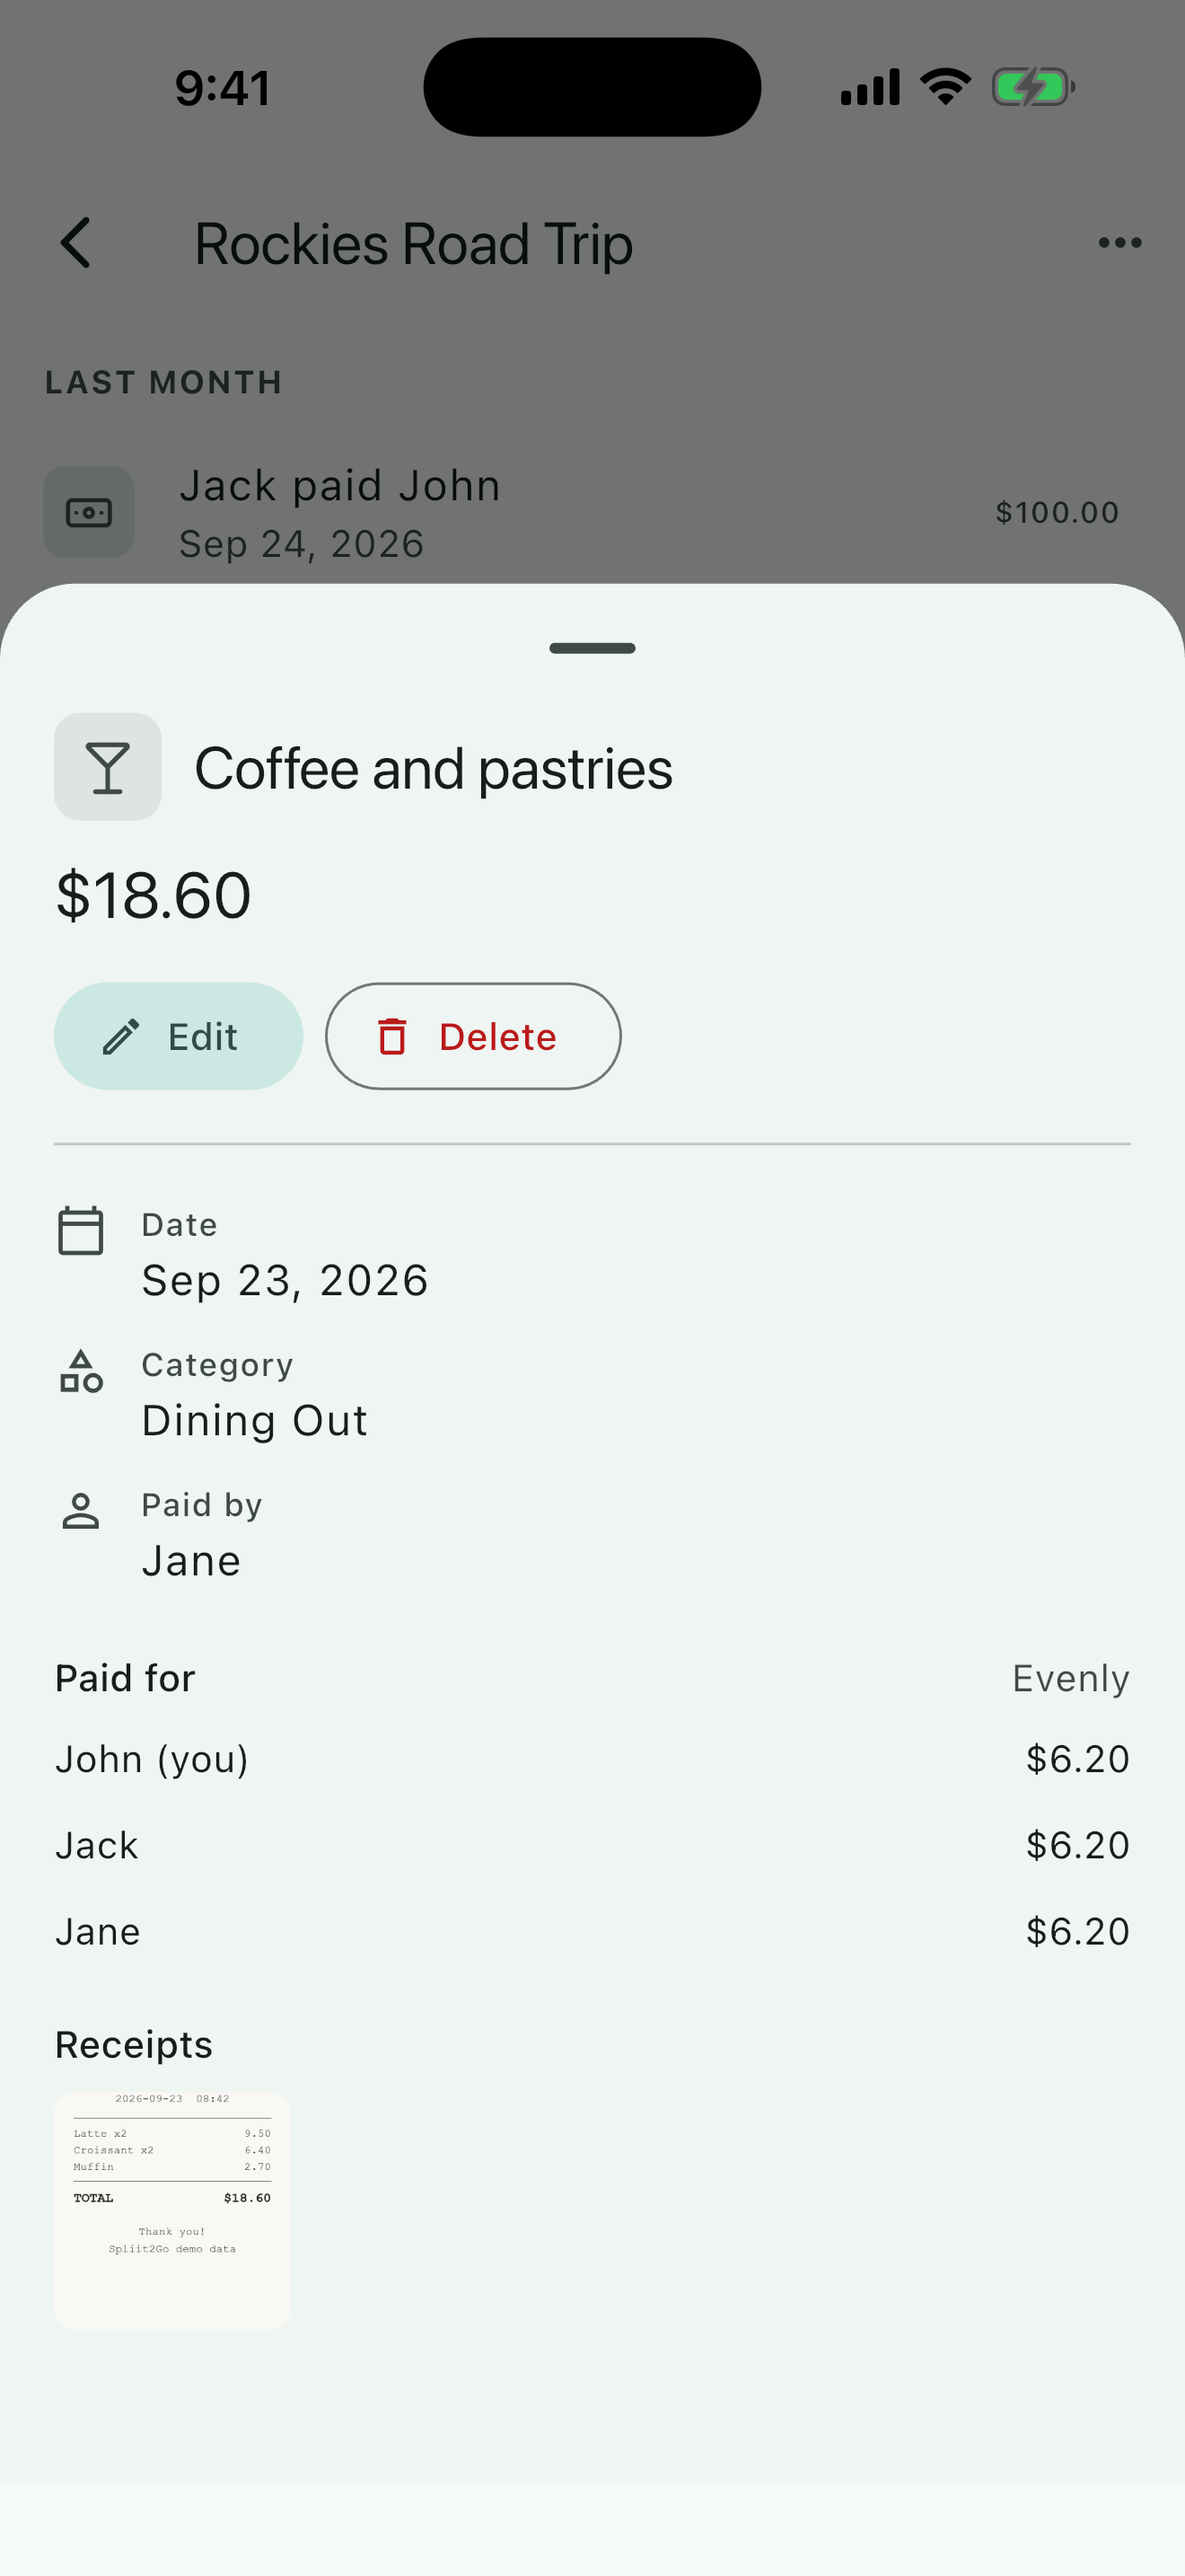
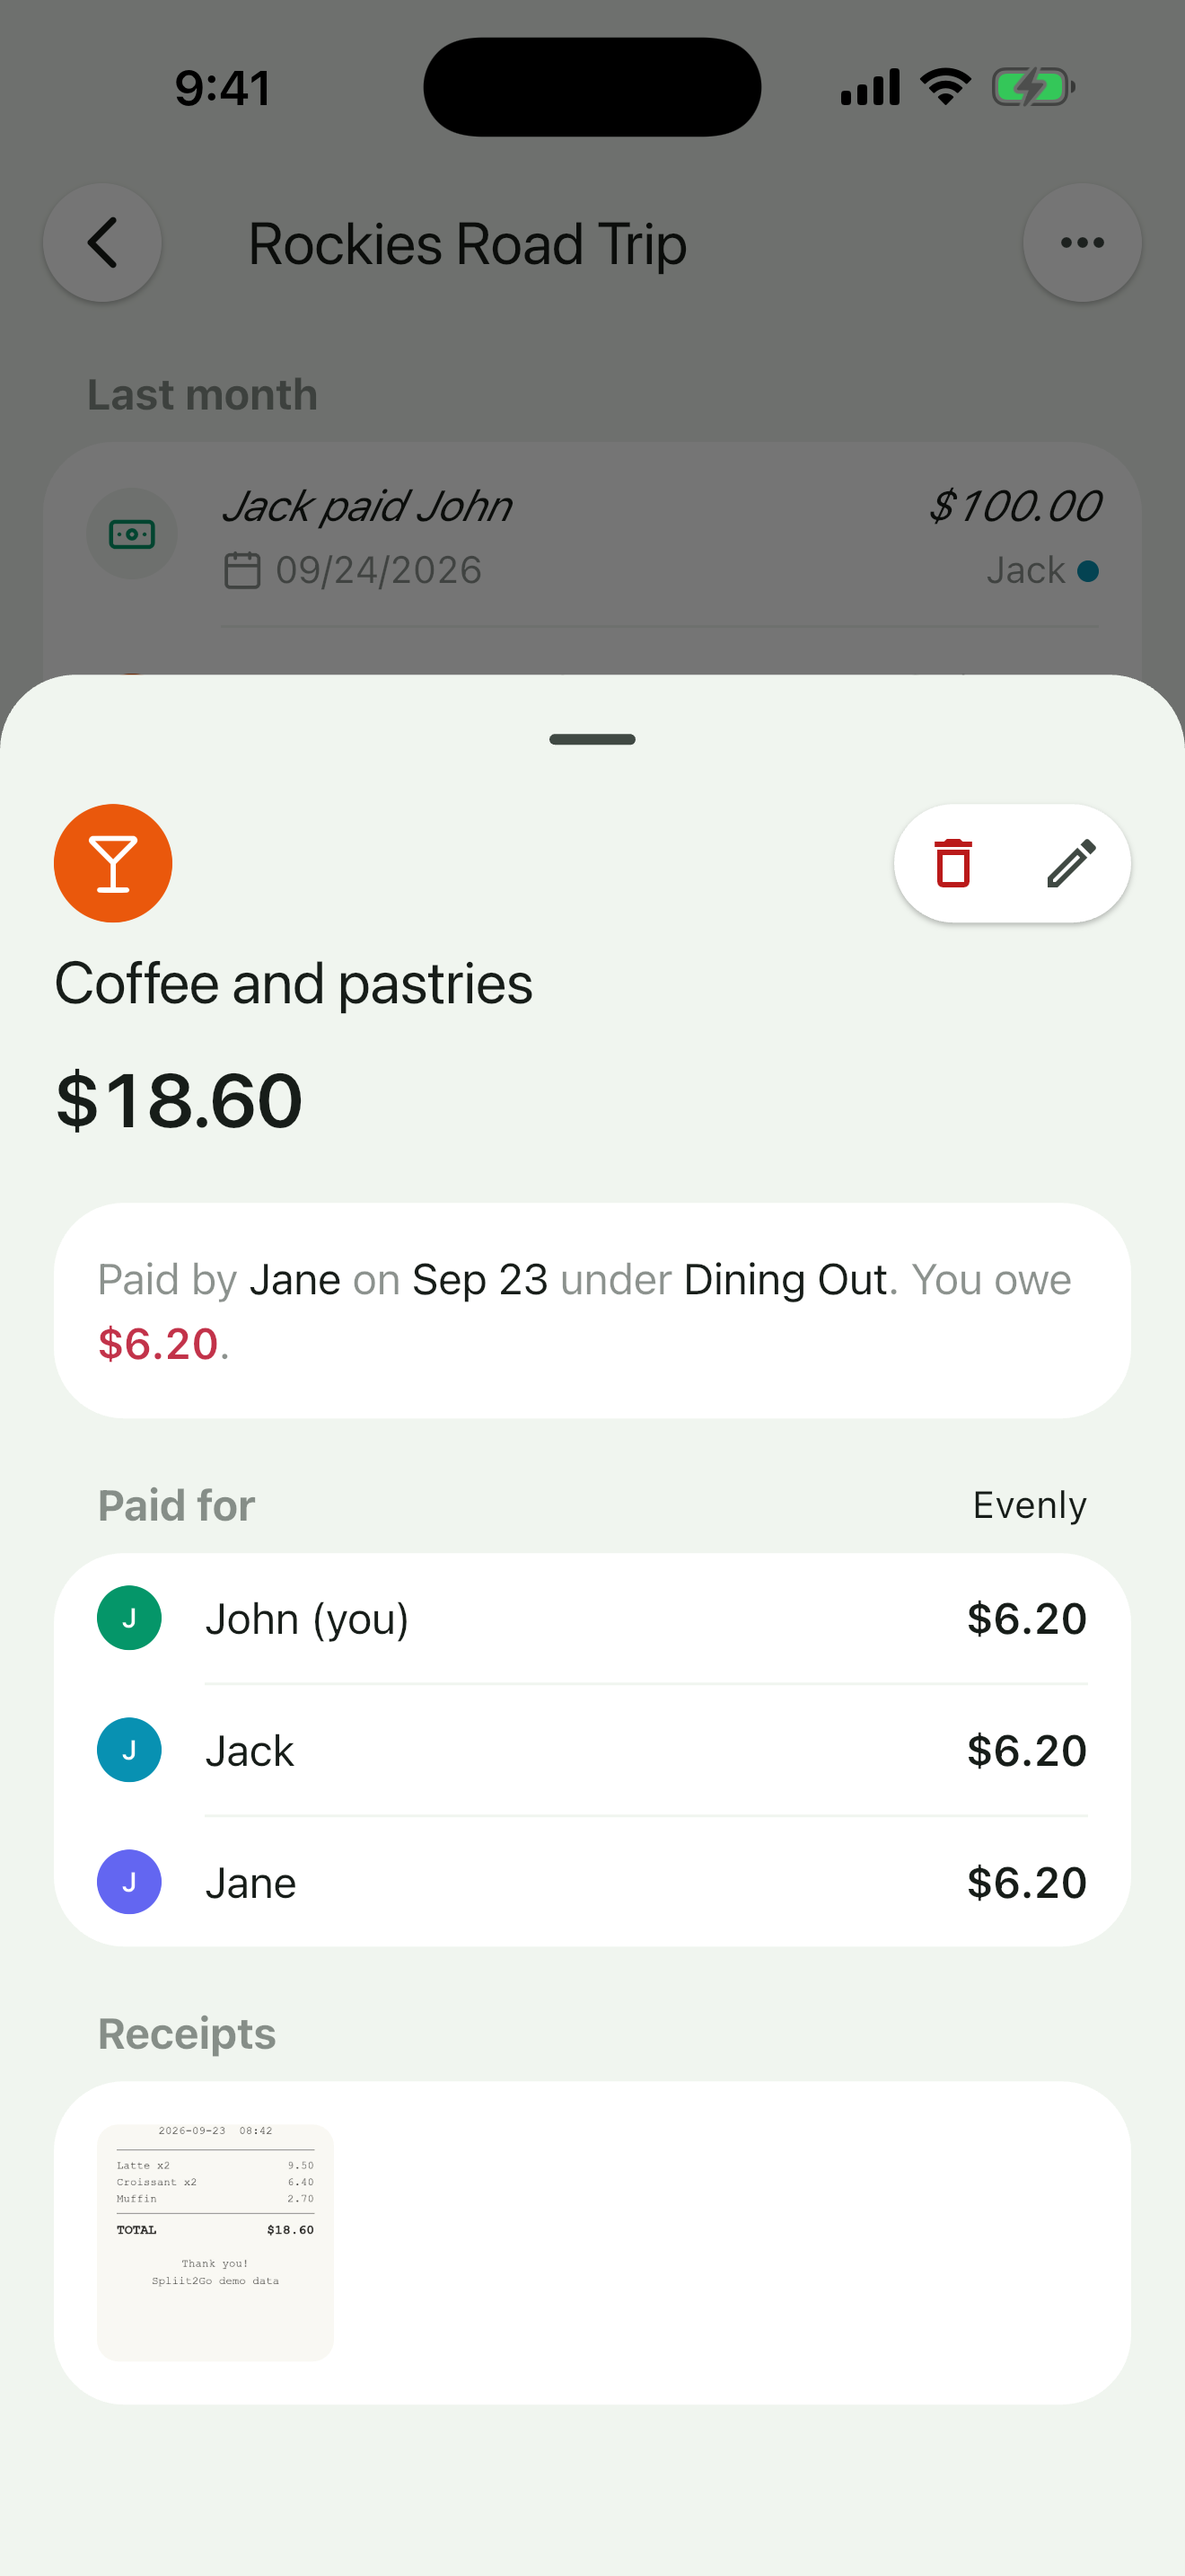
Retake the App Store screenshots for 1.0.0 (300)
The App Store set still showed build 1's design. Same six screens, the
same made-up groups and captions, from a prod build of ada0a7a (the
commit build 300 was made from) on the iPhone 17 Pro Max simulator.
Play's screenshots are unchanged.

diff --git a/branding/store/README.md b/branding/store/README.md
@@ -24,6 +24,6 @@ Only made-up data, never a real group. The app had these groups joined, all on s
 One group is a favorite: Rockies Road Trip on Android, Flat 4B on iPhone. The simulator reports no network to the app, so a favorite with receipts shows a red 📎 there.
 
 - **Android:** a release build on the `Medium_Phone` emulator (1080×2400), `adb exec-out screencap -p`. Demo mode gives the clean status bar: `settings put global sysui_demo_allowed 1`, then `am broadcast -a com.android.systemui.demo -e command …` with `enter`, `clock -e hhmm 0941`, `battery -e level 100 -e plugged false`, `network -e mobile hide -e wifi show -e level 4`, `notifications -e visible false`. Clear any notification first.
-- **iPhone:** the iPhone 17 Pro Max simulator (1320×2868), `xcrun simctl io <device> screenshot`, with `xcrun simctl status_bar <device> override --time 9:41 --batteryState charged --batteryLevel 100 --wifiBars 3 --cellularBars 4`. Simulator builds are debug builds, so set `debugShowCheckedModeBanner: false` on `MaterialApp` for the capture only; don't commit it.
+- **iPhone:** a prod build (`flutter build ios --simulator --debug --flavor prod`; the dev flavor is named "Spliit2Go Dev") on the iPhone 17 Pro Max simulator (1320×2868), in the Light theme, `xcrun simctl io <device> screenshot`, with `xcrun simctl status_bar <device> override --time 9:41 --batteryState charged --batteryLevel 100 --wifiBars 3 --cellularBars 4`. Simulator builds are debug builds, so set `debugShowCheckedModeBanner: false` on `MaterialApp` for the capture only; don't commit it.
 
 The add-expense shots are of an unsaved form, discarded afterwards.
